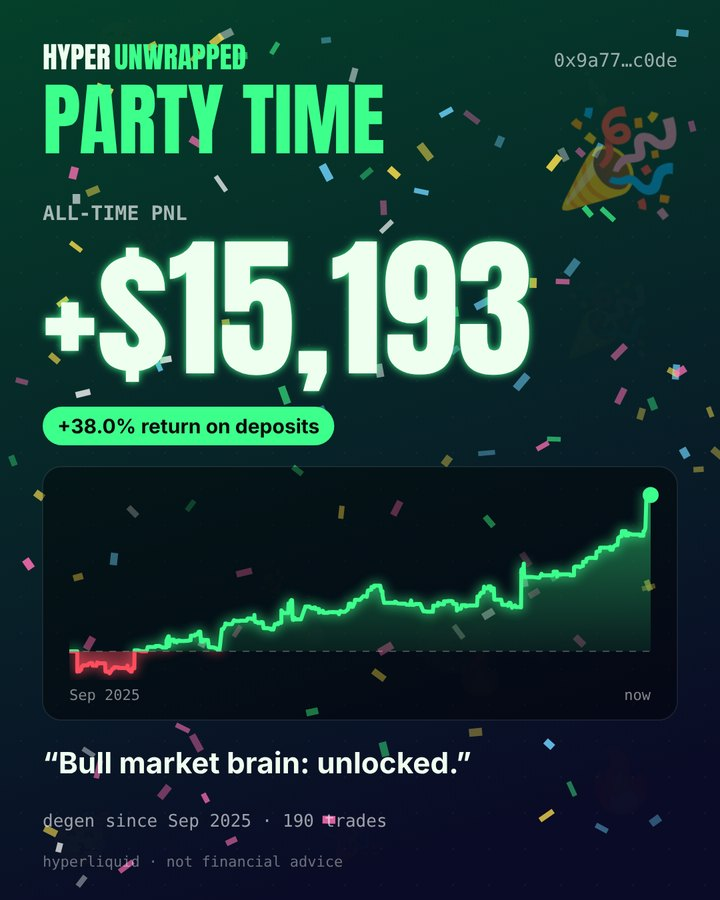
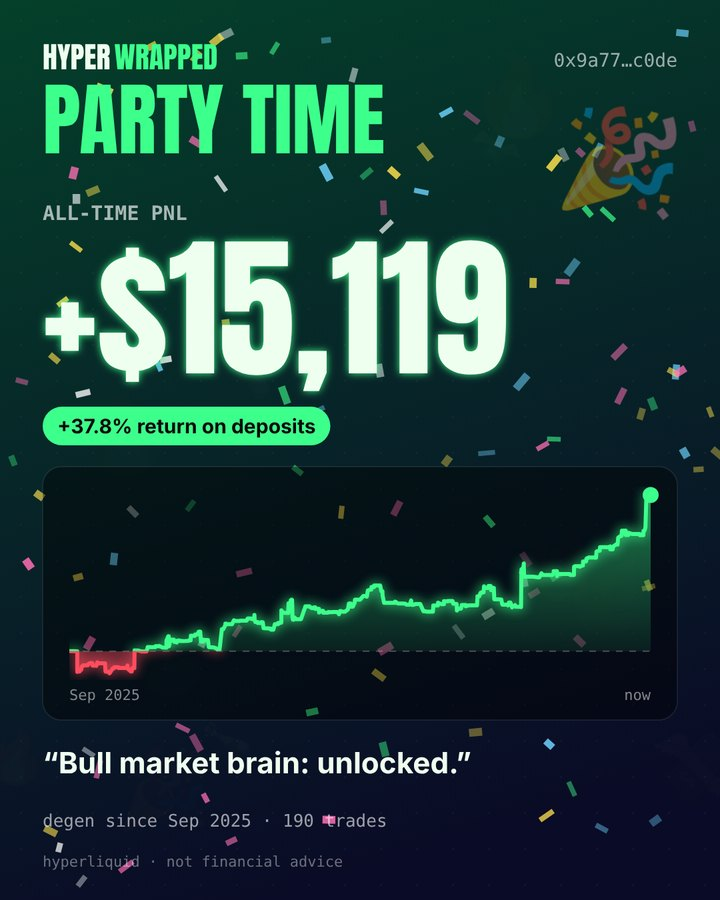
Rename to Hyper Wrapped

diff --git a/docs/assets/index-BcBB-TgB.js b/docs/assets/index-BcBB-TgB.js
@@ -1,0 +1,1 @@
+(function(){const t=document.createElement("link").relList;if(t&&t.supports&&t.supports("modulepreload"))return;for(const s of document.querySelectorAll('link[rel="modulepreload"]'))i(s);new MutationObserver(s=>{for(const o of s)if(o.type==="childList")for(const l of o.addedNodes)l.tagName==="LINK"&&l.rel==="modulepreload"&&i(l)}).observe(document,{childList:!0,subtree:!0});function n(s){const o={};return s.integrity&&(o.integrity=s.integrity),s.referrerPolicy&&(o.referrerPolicy=s.referrerPolicy),s.crossOrigin==="use-credentials"?o.credentials="include":s.crossOrigin==="anonymous"?o.credentials="omit":o.credentials="same-origin",o}function i(s){if(s.ep)return;s.ep=!0;const o=n(s);fetch(s.href,o)}})();const ze="https://api.hyperliquid.xyz/info",ke=2e3,ve=5,Ge=500,We=20,Ye=e=>new Promise(t=>setTimeout(t,e));function je(e=fetch.bind(globalThis),t=ze){const n=async(i,s=0)=>{const o=await e(t,{method:"POST",headers:{"Content-Type":"application/json"},body:JSON.stringify(i)});if(o.status===429&&s<4)return await Ye(1200*(s+1)),n(i,s+1);if(!o.ok)throw new Error(`Hyperliquid API returned ${o.status}`);return o.json()};return i=>n(i)}async function Me(e,t,n,i,s){const o=[];let l=t;for(let r=0;r<i;r++){const a=await e(l);if(!Array.isArray(a)||!a.length)return{items:o,capped:!1};if(o.push(...a),s==null||s(o.length,r),a.length<n)return{items:o,capped:!1};l=Math.max(...a.map(c=>c.time))+1}return{items:o,capped:!0}}function _e(e){const t=new Set;return e.filter(n=>{const i=n.tid!=null?String(n.tid):`${n.hash}${n.oid}${n.time}${n.px}`;return t.has(i)?!1:(t.add(i),!0)}).sort((n,i)=>n.time-i.time)}async function Ke(e,t,n=()=>{}){var d;n(.05,"Pulling your fills…");const{items:i,capped:s}=await Me(f=>t({type:"userFillsByTime",user:e,startTime:f,aggregateByTime:!0}),0,ke,ve,(f,m)=>n(.08+m*.1,`Pulling your fills… ${f.toLocaleString()}`)),o=_e(i);n(.6,"Consulting the funding gods…");const{items:l}=await Me(f=>t({type:"userFunding",user:e,startTime:f}),o.length?o[0].time:0,Ge,We);n(.72,"Counting the damage…");const[r,a]=await Promise.all([t({type:"portfolio",user:e}).catch(()=>null),t({type:"clearinghouseState",user:e}).catch(()=>null)]),c={};if(o.some(f=>f.coin.startsWith("@")))try{const f=await t({type:"spotMeta"});for(const m of f.universe)c[m.name]=((d=f.tokens[m.tokens[0]])==null?void 0:d.name)??m.name}catch{}return{user:e,fills:o,funding:l,portfolio:r,state:a,spotNames:c,capped:s||i.length>=ke*ve}}const U=864e5,ae=36e5,J=(e,t,n)=>Math.max(t,Math.min(n,e));function Le(e){let t=2166136261;for(const n of e)t^=n.charCodeAt(0),t=Math.imul(t,16777619);return t>>>0}function ye(e){let t=e>>>0;return()=>{t|=0,t=t+1831565813|0;let n=Math.imul(t^t>>>15,1|t);return n=n+Math.imul(n^n>>>7,61|n)^n,((n^n>>>14)>>>0)/4294967296}}const L=(e,t)=>t[Math.floor(e()*t.length)];function w(e,t=!0){const n=e<0?"-":t&&e>0?"+":"",i=Math.abs(e);let s;return i>=1e9?s=(i/1e9).toFixed(2)+"B":i>=1e6?s=(i/1e6).toFixed(2)+"M":i>=1e5?s=(i/1e3).toFixed(1)+"K":i>=1e3?s=Math.round(i).toLocaleString("en-US"):s=i.toFixed(2),n+"$"+s}const Ve=e=>(e>0?"+":"")+(Math.abs(e)>=10?Math.round(e*100).toLocaleString("en-US"):(e*100).toFixed(1))+"%";function ce(e){const t=Number(e);return isFinite(t)?t>=1e3?"$"+Math.round(t).toLocaleString("en-US"):"$"+Number(t.toPrecision(5)).toString():"—"}function te(e){const t=Math.round(e/1e3);if(t<60)return Math.max(1,t)+"s";const n=Math.round(e/6e4);if(n<60)return n+"m";if(n<48*60)return Math.floor(n/60)+"h "+n%60+"m";const i=Math.round(e/36e5);return Math.floor(i/24)+"d "+i%24+"h"}const Je=e=>new Date(e).toLocaleDateString("en-US",{month:"short",day:"numeric",year:"numeric"}),Oe=e=>new Date(e).toLocaleDateString("en-US",{month:"short",year:"numeric"}),qe=e=>e.slice(0,6)+"…"+e.slice(-4),Qe=e=>/^0x[0-9a-fA-F]{40}$/.test(e.trim()),Xe=/^(k?PEPE|k?BONK|WIF|k?SHIB|DOGE|POPCAT|BRETT|MEW|k?FLOKI|FARTCOIN|TURBO|PNUT|GOAT|MOODENG|PENGU|TRUMP|SPX|k?NEIRO|CHILLGUY|BOME|MEME)$/i;function Ze(e){var n;return((n=[[e.liqCount>=3,["The Liquidation Speedrunner",`${e.liqCount} liquidations. The engine knows you by name.`]],[e.fees>Math.abs(e.pnl)&&e.fees>100,["The Fee Donor","Validators thank you for your service."]],[e.fundingNet>Math.abs(e.pnl)*.3&&e.fundingNet>100,["The Funding Farmer","Gets paid to wait. Annoyingly smart."]],[!!e.favCoin&&Xe.test(e.favCoin),["The Memecoin Mercenary",`Most traded: ${e.favCoin}. No further questions.`]],[e.winRate>=.65&&e.tradeCount>=10,["The Sniper",`${Math.round(e.winRate*100)}% win rate. Suspiciously good.`]],[e.medianHold>0&&e.medianHold<ae,["The Paper Hands",`Median hold: ${te(e.medianHold)}. Commitment issues.`]],[e.medianHold>7*U,["The Diamond Hands",`Median hold: ${te(e.medianHold)}. Touch grass? Never.`]],[e.winRate<.35&&e.tradeCount>=10,["The Contrarian Indicator","Do the opposite of this wallet."]]].find(([i])=>i))==null?void 0:n[1])??["The Coin Flipper","Wins some, loses some, pays fees on all of it."]}const we=1e-12;function et(e,t={}){const n=String(e);return t[n]?t[n]:n.includes(":")?n.split(":")[1]:n.includes("/")?n.split("/")[0]:n}function Re(e){const t=Number(e.fee||0);return e.feeToken&&e.feeToken!=="USDC"?t*Number(e.px):t}const Fe=(e,t)=>!!e.liquidation&&String(e.liquidation.liquidatedUser??"").toLowerCase()===t.toLowerCase();function fe(e,t,n,i){const s=Number(e.px);return{coin:e.coin,name:t,side:n,openTime:e.time,pnl:0,inSz:i,inNotional:i*s,outSz:0,outNotional:0,maxSz:i,liq:!1}}function tt(e,t,n=i=>i){const i=[],s={};for(const o of[...e].sort((l,r)=>l.time-r.time)){const l=Number(o.sz),r=Number(o.px),a=o.side==="B"?l:-l,c=Number(o.startPosition||0),d=c+a;let f=s[o.coin];!f&&Math.abs(c)>we&&(f=s[o.coin]=fe(o,n(o.coin),c>0?1:-1,Math.abs(c)));const m=!!f&&Math.sign(a)!==f.side;if(f||(f=s[o.coin]={...fe(o,n(o.coin),a>0?1:-1,0)}),f.pnl+=Number(o.closedPnl||0)-Re(o),Fe(o,t)&&(f.liq=!0),!m){f.inSz+=l,f.inNotional+=l*r,f.maxSz=Math.max(f.maxSz,Math.abs(d));continue}const S=Math.min(l,Math.abs(c));f.outSz+=S,f.outNotional+=S*r;const b=Math.abs(d)<we,T=!b&&Math.sign(d)!==Math.sign(c);(b||T)&&(f.closeTime=o.time,f.entry=f.inNotional/(f.inSz||1),f.exit=f.outNotional/(f.outSz||1),i.push(f),delete s[o.coin],T&&(s[o.coin]=fe(o,f.name,d>0?1:-1,Math.abs(d))))}return{closed:i,open:Object.values(s)}}function nt(e){var l;const t=Array.isArray(e)?e.find(r=>r[0]==="allTime"):void 0,n=(l=t==null?void 0:t[1])==null?void 0:l.pnlHistory;if(!(n!=null&&n.length))return null;const i=n.map(([r,a])=>[r,Number(a)]),s=new Map(i);let o=0;for(const[r,a]of t[1].accountValueHistory??[]){const c=s.get(r);c!==void 0&&(o=Math.max(o,Number(a)-c))}return{series:i,pnl:i[i.length-1][1],basis:o}}function ot(e){var G,Q,re;const t=h=>et(h,e.spotNames),{closed:n}=tt(e.fills,e.user,t);let i=0,s=0,o=0,l=0;const r={},a={},c=new Array(24).fill(0);for(const h of e.fills){const k=Number(h.sz)*Number(h.px),X=Re(h),_=t(h.coin);i+=k,s+=X,o+=Number(h.builderFee||0),c[new Date(h.time).getUTCHours()]++,a[_]=(a[_]||0)+k;const Se=r[_]??(r[_]={name:_,pnl:0,vol:0,trades:0});Se.pnl+=Number(h.closedPnl||0)-X,Se.vol+=k,Fe(h,e.user)&&l++}for(const h of n)r[h.name].trades++;let d=0;for(const h of e.funding){const k=Number(((G=h.delta)==null?void 0:G.usdc)||0);d+=k;const X=r[t((Q=h.delta)==null?void 0:Q.coin)];X&&(X.pnl+=k)}const f=nt(e.portfolio);let m,S,b=0;if(f)({pnl:m,series:S,basis:b}=f);else{let h=0;S=n.map(k=>[k.closeTime,h+=k.pnl]),m=h+d}const T=b>0?Math.max(-1,m/b):null,g=n.filter(h=>h.pnl>0).length,v=n.length?g/n.length:0;let y=0,P=0;for(const h of n)y=h.pnl>0?y+1:0,P=Math.max(P,y);const I=h=>h.closeTime-h.openTime,z=n.map(I).sort((h,k)=>h-k),H=z.length?z[Math.floor(z.length/2)]:0,C=[...n].sort((h,k)=>I(k)-I(h)),q=Object.values(r),D=Object.entries(a).sort((h,k)=>k[1]-h[1])[0]??null,le=(((re=e.state)==null?void 0:re.assetPositions)??[]).map(h=>h.position).filter(Boolean).map(h=>{var k;return{name:t(h.coin),szi:Number(h.szi),entry:Number(h.entryPx),upnl:Number(h.unrealizedPnl),lev:(k=h.leverage)==null?void 0:k.value,liq:h.liquidationPx?Number(h.liquidationPx):null,value:Number(h.positionValue??0)}}).sort((h,k)=>Math.abs(k.upnl)-Math.abs(h.upnl));return{user:e.user,pnl:m,roi:T,basis:b,series:S,trades:n,sortedTrades:[...n].sort((h,k)=>k.pnl-h.pnl),winRate:v,wins:g,bestStreak:P,volume:i,fees:s,builderFees:o,fundingNet:d,liqCount:l,bestCoins:q.filter(h=>h.pnl>0).sort((h,k)=>k.pnl-h.pnl).slice(0,3),cursed:q.filter(h=>h.pnl<0).sort((h,k)=>h.pnl-k.pnl).slice(0,3),favCoin:D,favHour:c.indexOf(Math.max(...c)),positions:le,archetype:Ze({pnl:m,fees:s,fundingNet:d,liqCount:l,winRate:v,tradeCount:n.length,medianHold:H,favCoin:(D==null?void 0:D[0])??null}),medianHold:H,longestHold:C[0]??null,shortestHold:C.length>1?C[C.length-1]:null,capped:e.capped,firstTime:e.fills.length?e.fills[0].time:null,fillCount:e.fills.length}}const it=30*U,st=8;async function lt(e,t,n=Date.now()){const i=e.trades.filter(o=>o.outSz>0&&o.closeTime).sort((o,l)=>l.outNotional-o.outNotional).slice(0,st);let s=null;for(const o of i){const l=Math.min(o.closeTime+it,n);if(!(l-o.closeTime<ae))try{const r=await t({type:"candleSnapshot",req:{coin:o.coin,interval:"4h",startTime:o.closeTime,endTime:l}});if(!Array.isArray(r)||!r.length)continue;const a=o.side>0?Math.max(...r.map(d=>Number(d.h))):Math.min(...r.map(d=>Number(d.l))),c=(o.side>0?a-o.exit:o.exit-a)*o.outSz;c>0&&(!s||c>s.missed)&&(s={trade:o,ext:a,missed:c})}catch{}}return s}const O={rekt:{title:"FULLY REKT",bg:["#2a0004","#050003"],acc:"#ff2d3d",ink:"#ffe9ea",fx:"skulls",emoji:"💀",quips:["The liquidation engine sends its regards.","Your PnL chart is a black ski slope.","Exit liquidity of the year. Congrats?","Time to touch grass. Lots of grass."]},pain:{title:"DOWN BAD",bg:["#330a10","#0a0a12"],acc:"#ff4d5e",ink:"#ffeef0",fx:"rain",emoji:"😭",quips:["Buy high, sell low: executed flawlessly.","The market took your lunch money. And your lunch.","Down bad, but still here. Respect."]},cope:{title:"IT'S JUST A DIP",bg:["#18202e","#090b10"],acc:"#8fb0dc",ink:"#eef3fb",fx:"drizzle",emoji:"🫠",quips:["Basically breakeven if you squint.","Fees ate your gains. Fees always eat.","Zoom out. No, further. Further."]},meh:{title:"TECHNICALLY PROFITABLE",bg:["#0b2a1c","#06100b"],acc:"#5ef0a0",ink:"#eafff3",fx:"sparkle",emoji:"😏",quips:["Up only (slightly).","Beat a savings account. Barely.","Profitable. Technically. We checked twice."]},party:{title:"PARTY TIME",bg:["#04402a","#0a0b26"],acc:"#3dff8c",ink:"#efffef",fx:"confetti",emoji:"🎉",quips:["Absolutely cooking.","Bull market brain: unlocked.","The funding gods smiled upon you."]},god:{title:"GENERATIONAL RUN",bg:["#4a3200","#22003f"],acc:"#ffd23d",ink:"#fff8e1",fx:"rockets",emoji:"🚀",quips:["Generational wealth speedrun.","Screenshot this before it reverts.","Retire? You just got warmed up."]}};function rt(e){const t=e.roi;if(t!==null&&isFinite(t))return t<=-.5?["rekt",J(-t,.5,1)]:t<=-.1?["pain",J(-t/.5,.2,1)]:t<0?["cope",.3]:t<.1?["meh",.3]:t<1?["party",J(t,.25,1)]:["god",J(t/5,.5,1)];const n=e.pnl;return n<=-1e4?["rekt",.8]:n<=-500?["pain",.6]:n<0?["cope",.3]:n<500?["meh",.3]:n<5e4?["party",.7]:["god",.9]}const at=["#3dff8c","#ffe14d","#ff6fb5","#6fd3ff","#ffffff"],ct=["#ffd23d","#ff7ad9","#7af7ff","#ffffff","#b388ff"];function Pe(e,t,n,i){for(let s=0;s<n;s++)e.save(),e.globalAlpha=.35+t()*.5,e.translate(t()*p,t()*E),e.rotate(t()*6.28),e.fillStyle=L(t,i),e.fillRect(-9,-4,14+t()*14,7+t()*5),e.restore()}function ue(e,t,n,i){e.strokeStyle=i,e.lineWidth=2.5;for(let s=0;s<n;s++){const o=t()*p,l=t()*E,r=30+t()*60;e.beginPath(),e.moveTo(o,l),e.lineTo(o-r*.25,l+r),e.stroke()}}function Z(e,t,n,i,s=50,o=70,l=.25){for(let r=0;r<n;r++)ie(e,L(t,i),t()*p,t()*E,s+t()*o,(t()-.5)*.7,l+t()*.3)}function de(e,t,n,i,s,o,l){const r=e.createRadialGradient(t,n,i,t,n,s);r.addColorStop(0,o),r.addColorStop(1,l),e.fillStyle=r,e.fillRect(0,0,p,E)}function ft(e,t,n,i){switch(e.save(),t){case"rockets":Pe(e,n,Math.round(50+170*i),ct),Z(e,n,Math.round(10+12*i),["🚀","💰","💎","🍾","🤑","🔥"],54),de(e,p*.8,150,10,700,"rgba(255,210,61,.35)","rgba(255,210,61,0)");break;case"confetti":Pe(e,n,Math.round(50+170*i),at),Z(e,n,Math.round(6+12*i),["🎉","🍾","💸","🥳","🔥"],54);break;case"sparkle":Z(e,n,10,["✨","💵","📈"],40,40,.18);break;case"drizzle":ue(e,n,70,"rgba(180,200,255,.2)");break;case"rain":ue(e,n,Math.round(140+220*i),"rgba(180,200,255,.2)"),Z(e,n,Math.round(5+14*i),["🌧","📉","😭","🧻"]),de(e,p/2,E/2,300,900,"rgba(0,0,0,0)","rgba(0,0,0,.45)");break;case"skulls":ue(e,n,Math.round(140+220*i),"rgba(255,90,100,.22)"),Z(e,n,Math.round(8+14*i),["💀","🪦","⚰","📉","🩸"]),de(e,p/2,E/2,300,900,"rgba(0,0,0,0)","rgba(120,0,10,.55)");break}e.restore()}const p=1080,E=1350,u=64,M="Anton, Impact, sans-serif",Y="'Space Grotesk', system-ui, sans-serif",A="'JetBrains Mono', ui-monospace, monospace",ut='"Apple Color Emoji","Segoe UI Emoji","Noto Color Emoji",sans-serif',oe="rgba(255,255,255,.55)",W="#3dff8c",x="#ff4d5e",dt="#ffd23d";function ht(){return Promise.all([document.fonts.load("100px Anton"),document.fonts.load('700 40px "Space Grotesk"'),document.fonts.load('500 20px "JetBrains Mono"'),document.fonts.load('700 20px "JetBrains Mono"')]).catch(()=>{})}function N(e,t,n,i,s,o=""){let l=i;for(e.font=`${o} ${l}px ${s}`;e.measureText(t).width>n&&l>12;)l-=2,e.font=`${o} ${l}px ${s}`;return l}function ne(e,t,n,i,s,o){let l="",r=i;for(const a of t.split(" ")){const c=l?`${l} ${a}`:a;e.measureText(c).width>s&&l?(e.fillText(l,n,r),l=a,r+=o):l=c}return l&&e.fillText(l,n,r),r}function be(e,t,n,i,s,o){e.beginPath(),e.moveTo(t+o,n),e.arcTo(t+i,n,t+i,n+s,o),e.arcTo(t+i,n+s,t,n+s,o),e.arcTo(t,n+s,t,n,o),e.arcTo(t,n,t+i,n,o),e.closePath()}function j(e,t,n,i,s,o=.42){e.save(),e.fillStyle=`rgba(0,0,0,${o})`,be(e,t,n,i,s,28),e.fill(),e.strokeStyle="rgba(255,255,255,.08)",e.lineWidth=2,e.stroke(),e.restore()}function ie(e,t,n,i,s,o=0,l=1){e.save(),e.globalAlpha=l,e.translate(n,i),e.rotate(o),e.font=`${s}px ${ut}`,e.textAlign="center",e.textBaseline="middle",e.fillText(t,0,0),e.restore()}function R(e,t,n,i,s){e.font=`700 30px ${A}`,e.fillStyle=s,e.fillText(t.toUpperCase(),n,i)}function ge(e,t,n,i,s,o){e.font=`700 30px ${Y}`;const l=e.measureText(t).width+44;return e.fillStyle=s,be(e,n,i-40,l,58,29),e.fill(),e.fillStyle=o,e.fillText(t,n+22,i),l}function Te(e,t,n,i,s,o,l,r=0,a=l){const c=N(e,t,s,o,M);return e.save(),e.fillStyle=l,r&&(e.shadowColor=a,e.shadowBlur=r),e.fillText(t,n,i),e.restore(),c}function se(e,t,n,i,s=44){return e.font=`700 ${s}px ${Y}`,e.fillStyle=i,ne(e,`“${t}”`,u,n,p-u*2,s*1.22)}function B(e,t,n,i){const s=document.createElement("canvas");s.width=p,s.height=E;const o=s.getContext("2d"),l=ye(n),r=o.createLinearGradient(0,0,p*.4,E);r.addColorStop(0,e.bg[0]),r.addColorStop(1,e.bg[1]),o.fillStyle=r,o.fillRect(0,0,p,E),o.fillStyle="rgba(255,255,255,.035)";for(let c=30;c<p;c+=54)for(let d=30;d<E;d+=54)o.fillRect(c,d,3,3);ft(o,e.fx,l,t),o.textBaseline="alphabetic",o.font=`44px ${M}`,o.fillStyle=e.ink,o.fillText("HYPER",u,104);const a=o.measureText("HYPER").width;return o.fillStyle=e.acc,o.fillText("WRAPPED",u+a+6,104),o.textAlign="right",o.fillStyle="rgba(255,255,255,.6)",o.font=`500 28px ${A}`,o.fillText(qe(i),p-u,100),o.textAlign="left",o.font=`500 22px ${A}`,o.fillStyle="rgba(255,255,255,.4)",o.fillText("hyperliquid · not financial advice",u,E-50),{cv:s,ctx:o,r:l}}function pt(e,t,n,i,s,o){if(t.length<2){e.fillStyle="rgba(255,255,255,.5)",e.font=`500 28px ${A}`,e.fillText("not enough history to chart",n+30,i+o/2);return}const l=t[0][0],r=t[t.length-1][0],a=t.map(y=>y[1]),c=Math.min(0,...a),d=Math.max(0,...a),f=d-c||1,m=y=>n+(y-l)/(r-l||1)*s,S=y=>i+o-(y-c)/f*o,b=S(0);e.save(),e.strokeStyle="rgba(255,255,255,.25)",e.setLineDash([10,10]),e.lineWidth=2,e.beginPath(),e.moveTo(n,b),e.lineTo(n+s,b),e.stroke(),e.restore();const T=[[1,W,"rgba(61,255,140,.45)","rgba(61,255,140,.03)"],[-1,x,"rgba(255,77,94,.05)","rgba(255,77,94,.45)"]];for(const[y,P,I,z]of T){e.save(),e.beginPath(),y>0?e.rect(n,i-10,s,b-i+10):e.rect(n,b,s,i+o-b+10),e.clip();const H=e.createLinearGradient(0,i,0,i+o);H.addColorStop(0,I),H.addColorStop(1,z),e.beginPath(),e.moveTo(m(l),b);for(const[C,q]of t)e.lineTo(m(C),S(q));e.lineTo(m(r),b),e.closePath(),e.fillStyle=H,e.fill(),e.beginPath(),t.forEach(([C,q],D)=>D?e.lineTo(m(C),S(q)):e.moveTo(m(C),S(q))),e.strokeStyle=P,e.lineWidth=6,e.lineJoin="round",e.shadowColor=P,e.shadowBlur=18,e.stroke(),e.restore()}const[g,v]=t[t.length-1];e.beginPath(),e.arc(m(g),S(v),12,0,6.28),e.fillStyle=v>=0?W:x,e.fill(),e.font=`500 22px ${A}`,e.fillStyle="rgba(255,255,255,.5)",e.fillText(Oe(l),n,i+o+40),e.textAlign="right",e.fillText("now",n+s,i+o+40),e.textAlign="left"}function mt({S:e,mood:t,k:n,seed:i,r:s}){const{cv:o,ctx:l}=B(t,n,i,e.user);ie(l,t.emoji,p-150,250,150,.12);const r=N(l,t.title,p-300,120,M);l.fillStyle=t.acc,l.fillText(t.title,u,230+(120-r)/2),R(l,"all-time pnl",u,330,"rgba(255,255,255,.65)");const a=N(l,w(e.pnl),p-u*2,230,M);Te(l,w(e.pnl),u,560-(230-a)/2,p-u*2,230,t.ink,30*n,t.acc),e.roi!==null&&isFinite(e.roi)&&ge(l,`${Ve(e.roi)} return on deposits`,u,650,t.acc,"#0a0a0a"),j(l,u,700,p-u*2,380),pt(l,e.series,u+40,740,p-u*2-80,270);const c=se(l,L(s,t.quips),1160,t.ink,44);l.font=`500 26px ${A}`,l.fillStyle="rgba(255,255,255,.6)";const d=e.firstTime?`degen since ${Oe(e.firstTime)} · `:"";return l.fillText(`${d}${e.trades.length.toLocaleString()} trades${e.capped?" (last 10k fills)":""}`,u,Math.min(Math.max(c+60,1240),1262)),{name:"pnl",cv:o}}function gt({S:e,mood:t,k:n,seed:i}){const{cv:s,ctx:o}=B(t,n*.7,i+1,e.user);R(o,"your trader archetype",u,230,t.acc);const l=e.archetype[0].toUpperCase().split(" "),r=l.length>3?130:160;let a=230+r;o.fillStyle=t.ink;for(const d of l){const f=N(o,d,p-u*2,r,M);o.fillText(d,u,a),a+=f+6}return o.font=`700 46px ${Y}`,o.fillStyle="rgba(255,255,255,.85)",ne(o,e.archetype[1],u,a+40,p-u*2,56),j(o,u,1050,p-u*2,200),[["win rate",`${Math.round(e.winRate*100)}%`],["best streak",`${e.bestStreak}W`],["median hold",e.medianHold?te(e.medianHold):"—"]].forEach(([d,f],m)=>{const S=u+40+m*310;o.font=`500 24px ${A}`,o.fillStyle=oe,o.fillText(d.toUpperCase(),S,1120),o.font=`70px ${M}`,o.fillStyle=t.acc,o.fillText(f,S,1210)}),{name:"archetype",cv:s}}const yt=["Called it. Insufferable now.","Main character energy.","Frame it. Put it on the fridge.","This is the one you tell people about."],bt=["Leverage: the gift that keeps on taking.","Stop loss? Never heard of her."],Tt=["We don't talk about this one.","Character-building experience.","The market said no. Loudly."];function Ie(e,t,n){const{S:i,seed:s,r:o}=e,l=n?O.party:O.pain,r=J(Math.abs(t.pnl)/(Math.abs(i.pnl)+1),.3,1),{cv:a,ctx:c}=B(l,r,s+(n?2:3),i.user);R(c,n?"best trade":"worst trade",u,230,l.acc);const d=N(c,t.name,p-u*2,260,M);c.fillStyle=l.ink,c.fillText(t.name,u,270+d*.92);let f=270+d*.92+90;const m=ge(c,t.side>0?"LONG":"SHORT",u,f,t.side>0?W:x,"#0a0a0a");t.liq&&ge(c,"LIQUIDATED 💀",u+m+14,f,"#000",x);const S=N(c,w(t.pnl),p-u*2,200,M);Te(c,w(t.pnl),u,f+60+S,p-u*2,200,l.acc,24),f=f+60+S+70,j(c,u,f,p-u*2,230),[["entry → exit",`${ce(t.entry)} → ${ce(t.exit)}`],["held",te(t.closeTime-t.openTime)],["closed",Je(t.closeTime)]].forEach(([g,v],y)=>{c.font=`500 26px ${A}`,c.fillStyle=oe,c.fillText(g.toUpperCase(),u+40,f+60+y*66),c.textAlign="right",c.font=`700 36px ${Y}`,c.fillStyle=l.ink,c.fillText(v,p-u-40,f+62+y*66),c.textAlign="left"});const T=n?L(o,yt):t.liq?L(o,bt):L(o,Tt);return se(c,T,Math.min(f+330,1220),l.ink),{name:n?"best-trade":"worst-trade",cv:a}}function St(e){const t=e.S.sortedTrades[0];return t&&t.pnl>0?Ie(e,t,!0):null}function kt(e){const t=e.S.sortedTrades[e.S.sortedTrades.length-1];return t&&t.pnl<0?Ie(e,t,!1):null}const $e=460,Ne=232;function De(e,t,n){const{S:i,seed:s,r:o}=e,l=n?O.party:O.rekt,{cv:r,ctx:a}=B(l,.55,s+(n?4:5),i.user);R(a,n?"your best assets":"your cursed assets",u,230,l.acc);const c=n?"MONEY PRINTERS":"THESE COINS OWE YOU",d=N(a,c,p-u*2,120,M);a.fillStyle=l.ink,a.fillText(c,u,260+d);const f=n?["🥇","🥈","🥉"]:["💀","🪦","⚰"],m=Math.max(...t.map(b=>Math.abs(b.pnl)),1);t.forEach((b,T)=>{const g=$e+T*Ne;j(a,u,g,p-u*2,206,.45),ie(a,f[T],150,g+105,90);const v=N(a,b.name,420,96,M);a.fillStyle=l.ink,a.fillText(b.name,230,g+90+(96-v)/3),a.font=`500 24px ${A}`,a.fillStyle=oe,a.fillText(`${b.trades} trades · ${w(b.vol,!1)} volume`,232,g+150),a.textAlign="right",N(a,w(b.pnl),330,72,M),a.fillStyle=l.acc,a.fillText(w(b.pnl),p-u-40,g+100),a.textAlign="left",a.globalAlpha=.85,be(a,232,g+170,(p-336)*(Math.abs(b.pnl)/m),12,6),a.fill(),a.globalAlpha=1});const S=n?L(o,["Never selling. (Sold immediately.)","Your ride-or-dies.","Loyalty rewarded, for once."]):L(o,["Blocked. Reported. Still trading it tomorrow.","Revenge trading enthusiasts only.","Some coins just hate you specifically."]);return se(a,S,$e+t.length*Ne+56,l.ink,40),{name:n?"best-assets":"cursed-assets",cv:r}}const vt=e=>e.S.bestCoins.length?De(e,e.S.bestCoins,!0):null,Mt=e=>e.S.cursed.length?De(e,e.S.cursed,!1):null;function wt({S:e,miss:t,seed:n,r:i}){if(!t)return null;const s=t.trade,o=O.cope,{cv:l,ctx:r}=B(o,.6,n+6,e.user);R(r,"biggest miss",u,230,o.acc),r.fillStyle=o.ink,r.font=`120px ${M}`,r.fillText("PAPER HANDS",u,370),ie(r,"🧻",p-140,320,120,.2),r.font=`700 44px ${Y}`,r.fillStyle="rgba(255,255,255,.9)";let a=ne(r,`You closed your ${s.name} ${s.side>0?"long":"short"} at ${ce(s.exit)}.`,u,480,p-u*2,56);a=ne(r,`Within 30 days it ${s.side>0?"ran to":"dumped to"} ${ce(t.ext)}.`,u,a+64,p-u*2,56),R(r,"left on the table",u,a+130,"rgba(255,255,255,.6)");const c=N(r,w(t.missed,!1),p-u*2,220,M);return Te(r,w(t.missed,!1),u,a+150+c,p-u*2,220,dt,24),se(r,L(i,["Hindsight is 20/20. Your exits are 20/200.","You sold the bottom of the top.","Patience is a virtue. You have other virtues."]),Math.min(a+150+c+120,1210),o.ink,42),{name:"biggest-miss",cv:l}}const Pt=["Married it.","Set it and forgot the password.","Patience of a monk. Or just asleep."],$t=["Blink and you'd miss it.","Commitment issues, but make it trading.","In and out. Like a heist, but worse."];function Ce(e,t,n,i,s,o){j(e,u,n,p-u*2,380,.45),ie(e,i?"💎":"🧻",p-u-90,n+90,100,i?-.15:.2),R(e,i?"diamond hands · longest hold":"paper hands · shortest hold",u+40,n+70,i?"#7af7ff":"#ffe1a8");const l=te(t.closeTime-t.openTime);N(e,l,p-u*2-240,150,M),e.fillStyle=o,e.fillText(l,u+40,n+220),e.font=`700 34px ${Y}`,e.fillStyle="rgba(255,255,255,.85)",e.fillText(`${t.name} ${t.side>0?"long":"short"}`,u+40,n+285),e.textAlign="right",N(e,w(t.pnl),380,64,M),e.fillStyle=t.pnl>=0?W:x,e.fillText(w(t.pnl),p-u-40,n+285),e.textAlign="left",e.font=`500 30px ${A}`,e.fillStyle=oe,e.fillText(`“${s}”`,u+40,n+355)}function Nt({S:e,seed:t,r:n}){const i=e.longestHold,s=e.shortestHold;if(!i||!s||i===s)return null;const o=O.cope,{cv:l,ctx:r}=B({...o,bg:["#0d1a2e","#120a1c"]},.3,t+9,e.user);R(r,"hold times",u,230,"#7af7ff"),N(r,"DIAMOND VS PAPER",p-u*2,120,M),r.fillStyle=o.ink,r.fillText("DIAMOND VS PAPER",u,360),Ce(r,i,400,!0,L(n,Pt),o.ink),Ce(r,s,810,!1,L(n,$t),o.ink);const a=(i.closeTime-i.openTime)/Math.max(1,s.closeTime-s.openTime);if(a>=10){const c=Intl.NumberFormat("en-US",{notation:a>=1e5?"compact":"standard",maximumFractionDigits:0}).format(a);se(r,`Your longest hold was ${c}× your shortest.`,1250,o.ink,34)}return{name:"hold-times",cv:l}}function Ct({S:e,seed:t}){if(!e.positions.length)return null;const n=e.positions.reduce((l,r)=>l+r.upnl,0),i=n>=0?O.meh:O.cope,{cv:s,ctx:o}=B(i,.4,t+7,e.user);return R(o,"current bags",u,230,i.acc),o.fillStyle=i.ink,o.font=`120px ${M}`,o.fillText(n>=0?"STILL COOKING":"STILL HOLDING",u,370),o.font=`500 30px ${A}`,o.fillStyle="rgba(255,255,255,.65)",o.fillText(`unrealized ${w(n)}`,u,430),e.positions.slice(0,5).forEach((l,r)=>{const a=480+r*150;j(o,u,a,p-u*2,126,.45),o.font=`64px ${M}`,o.fillStyle=i.ink,o.fillText(l.name,u+40,a+84),o.font=`700 26px ${A}`,o.fillStyle=l.szi>0?W:x,o.fillText(`${l.szi>0?"LONG":"SHORT"}${l.lev?` ${l.lev}x`:""}`,464,a+76),o.textAlign="right",o.font=`60px ${M}`,o.fillStyle=l.upnl>=0?W:x,o.fillText(w(l.upnl),p-u-40,a+84),o.textAlign="left"}),{name:"current-bags",cv:s}}function At(e){return e.fees>Math.abs(e.pnl)?`You paid ${w(e.fees,!1)} in fees. The exchange thanks you.`:e.liqCount?`${e.liqCount} liquidation${e.liqCount>1?"s":""}. Leverage is a hell of a drug.`:`Win rate ${Math.round(e.winRate*100)}%. ${e.winRate>.5?"Not bad, degen.":"A coin flip would be proud."}`}function Et({S:e,mood:t,k:n,seed:i}){const{cv:s,ctx:o}=B(t,n*.5,i+8,e.user);return R(o,"the receipts",u,230,t.acc),o.fillStyle=t.ink,o.font=`120px ${M}`,o.fillText("BY THE NUMBERS",u,370),[["volume traded",w(e.volume,!1)],["trades closed",e.trades.length.toLocaleString()],["fees paid",w(e.fees,!1)],["builder fees tipped",w(e.builderFees,!1)],["funding",w(e.fundingNet),e.fundingNet>=0?W:x],["liquidations",String(e.liqCount),e.liqCount?x:void 0],["most traded",e.favCoin?e.favCoin[0]:"—"],["favorite hour",`${String(e.favHour).padStart(2,"0")}:00 UTC`]].forEach(([r,a,c],d)=>{const f=u+d%2*486,m=430+Math.floor(d/2)*200;j(o,f,m,466,176,.42),o.font=`500 24px ${A}`,o.fillStyle=oe,o.fillText(r.toUpperCase(),f+34,m+54),N(o,a,400,76,M),o.fillStyle=c??t.ink,o.fillText(a,f+34,m+140)}),o.font=`700 38px ${Y}`,o.fillStyle=t.ink,ne(o,At(e),u,1250,p-u*2,46),{name:"receipts",cv:s}}const Lt=[mt,gt,St,kt,Nt,vt,Mt,wt,Ct,Et];function Ot(e,t){const n=Le(e.user),[i,s]=rt(e),o={S:e,miss:t,mood:O[i],k:s,seed:n,r:ye(n)};return{cards:Lt.map(r=>r(o)).filter(r=>r!==null),moodKey:i,k:s}}let Ae;function K(e){const t=document.querySelector("#toast");t.textContent=e,t.classList.add("on"),clearTimeout(Ae),Ae=setTimeout(()=>t.classList.remove("on"),1600)}const $=e=>document.querySelector(e),he=e=>new Promise((t,n)=>e.toBlob(i=>i?t(i):n(new Error("toBlob failed")),"image/png"));function pe(e,t){const n=document.createElement("a");n.href=URL.createObjectURL(e),n.download=t,document.body.appendChild(n),n.click(),setTimeout(()=>{URL.revokeObjectURL(n.href),n.remove()},1e3)}function qt(e){let t=[],n=[],i=0,s="";const o=c=>`hyper-wrapped-${qe(s).replace("…","")}-${c.name}.png`;function l(c){i=J(c,0,t.length-1),$("#cardImg").src=n[i],$("#prog").innerHTML=t.map((d,f)=>`<i data-j="${f}" class="${f<i?"done":f===i?"on":""}"></i>`).join(""),$("#count").textContent=`${i+1} / ${t.length}`}const r=()=>$("#story").style.display==="block";$("#prog").addEventListener("click",c=>{const d=c.target.dataset.j;d!=null&&l(Number(d))}),$("#tapL").onclick=$("#prev").onclick=()=>l(i-1),$("#tapR").onclick=$("#next").onclick=()=>l(i+1),addEventListener("keydown",c=>{r()&&(c.key==="ArrowRight"&&l(i+1),c.key==="ArrowLeft"&&l(i-1))});let a=null;return $("#stage").addEventListener("touchstart",c=>a=c.touches[0].clientX,{passive:!0}),$("#stage").addEventListener("touchend",c=>{if(a==null)return;const d=c.changedTouches[0].clientX-a;Math.abs(d)>40&&l(i+(d<0?1:-1)),a=null}),$("#save").onclick=async()=>{try{pe(await he(t[i].cv),o(t[i])),K("Saved")}catch{K("Long-press the card to save it")}},$("#saveAll").onclick=async()=>{try{for(const c of t)pe(await he(c.cv),o(c)),await new Promise(d=>setTimeout(d,250));K(`Saved ${t.length} cards`)}catch{K("Long-press each card to save it")}},$("#share").onclick=async()=>{var c;try{const d=new File([await he(t[i].cv)],o(t[i]),{type:"image/png"});(c=navigator.canShare)!=null&&c.call(navigator,{files:[d]})?await navigator.share({files:[d],text:"My Hyperliquid Wrapped 👀"}):(pe(d,d.name),K("Sharing not supported here, saved instead"))}catch(d){(d==null?void 0:d.name)!=="AbortError"&&K("Long-press the card to save it")}},$("#again").onclick=()=>{$("#story").style.display="none",e()},{open(c,d){t=c,s=d,n=c.map(f=>f.cv.toDataURL("image/png")),$("#story").style.display="block",l(0)}}}function Rt(e){const t=e.getContext("2d");let n=[],i=null,s=0;const o=()=>i==="confetti"||i==="rockets"||i==="sparkle";function l(){const r=devicePixelRatio,a=e.width=innerWidth*r,c=e.height=innerHeight*r;t.clearRect(0,0,a,c);const d=o();for(const f of n){f.y+=f.v*(d?1:4),f.r+=f.s,f.y>1.05&&(f.y=-.05,f.x=Math.random());const m=f.x*a,S=f.y*c;d?(t.save(),t.translate(m,S),t.rotate(f.r),t.globalAlpha=.55,t.fillStyle=f.c,t.fillRect(-5*r,-2.5*r,10*r,5*r),t.restore()):(t.strokeStyle=i==="skulls"?"rgba(255,80,90,.35)":"rgba(170,190,255,.25)",t.lineWidth=1.5*r,t.beginPath(),t.moveTo(m,S),t.lineTo(m-4*r,S+22*r),t.stroke())}s=requestAnimationFrame(l)}return{set(r,a=.5){if(i=r,cancelAnimationFrame(s),!r||matchMedia("(prefers-reduced-motion: reduce)").matches){t.clearRect(0,0,e.width,e.height);return}const c=r==="rockets"?["#ffd23d","#ff7ad9","#7af7ff","#fff"]:["#3dff8c","#ffe14d","#ff6fb5","#6fd3ff"],d=Math.round((o()?60:90)*(.4+a));n=Array.from({length:d},()=>({x:Math.random(),y:Math.random(),v:6e-4+Math.random()*.002,r:Math.random()*6.28,s:(Math.random()-.5)*.08,c:c[Math.floor(Math.random()*c.length)]})),l()}}}const Ue={god:"0x6a0de1d5e1a1c0ffee00000000000000000000aa",party:"0x9a77ee00000000000000000000000000beefc0de",cope:"0xc0be0000000000000000000000000000000d1d1d",rekt:"0xdead000000000000000000000000000000000bad"},Ft={god:{edge:.62,mult:9,n:160,liq:0,size:1,base:4e3},party:{edge:.56,mult:2.4,n:220,liq:0,size:.35,base:4e4},cope:{edge:.5,mult:.9,n:260,liq:1,size:.15,base:4e5},rekt:{edge:.3,mult:1.6,n:200,liq:5,size:1,base:15e4}},me=[["BTC",64e3,.08],["ETH",3100,1.4],["SOL",150,30],["HYPE",24,300],["kPEPE",.011,9e5],["WIF",2.1,4e3],["DOGE",.16,6e4],["SUI",1.8,5e3]],Ee=(e,t)=>e[1]*(1+.35*Math.sin(t/(37*U)+e[1])+.15*Math.sin(t/(5*U)+e[2]));function It(e,t=Date.now()){const n=ye(Le(e)+7),i=Ft[e],s=t-420*U,o=[],l=[];let r=1,a=s;const c={};for(let T=0;T<i.n&&(a+=(n()*2.2+.2)*U*(420/i.n)*.45,!(a>t-U));T++){const g=me[Math.floor(Math.pow(n(),1.4)*me.length)];if((c[g[0]]??0)>=a)continue;const v=n()<.6?1:-1,y=Ee(g,a),P=g[2]*(.3+n()*2.2)*(n()<.05?6:1)*i.size,I=n()<i.edge,z=(.01+n()*.12)*(I?i.mult*.5:1)*(I?1:-1),H=y*(1+z*v),C=Math.max((n()<.4?n()*.2:n()*6)*U,6e4*(1+n()*20)),q=Math.min(a+C,t-ae);c[g[0]]=q;const D=!I&&i.liq>0&&n()<i.liq/i.n*3,le=re=>(P*re*45e-5).toFixed(4);o.push({coin:g[0],px:String(y),sz:String(P),side:v>0?"B":"A",time:Math.round(a),startPosition:"0",dir:v>0?"Open Long":"Open Short",closedPnl:"0",fee:le(y),feeToken:"USDC",builderFee:n()<.5?(P*y*5e-4).toFixed(4):void 0,tid:r++});const G=D?y*(1-v*.09):H,Q={coin:g[0],px:String(G),sz:String(P),side:v>0?"A":"B",time:Math.round(q),startPosition:String(v*P),dir:v>0?"Close Long":"Close Short",closedPnl:String((G-y)*P*v),fee:le(G),feeToken:"USDC",tid:r++};D&&(Q.liquidation={liquidatedUser:Ue[e],markPx:String(G),method:"market"}),o.push(Q),n()<.5&&l.push({time:Math.round(a+C/2),delta:{type:"funding",coin:g[0],usdc:String((n()-.45)*P*y*4e-4*(C/U))}})}o.sort((T,g)=>T.time-g.time);let d=0;const f=[[s,"0"]],m=[[s,String(i.base)]];for(const T of o)d+=Number(T.closedPnl)-Number(T.fee),f.push([T.time,String(d)]),m.push([T.time,String(i.base+d)]);const S=[["allTime",{pnlHistory:f,accountValueHistory:m,vlm:"0"}]],b={assetPositions:e==="rekt"?[]:[{position:{coin:"HYPE",szi:"420",entryPx:"31.2",unrealizedPnl:e==="cope"?"-512.4":"1840.2",leverage:{value:5},positionValue:"13000"}},{position:{coin:"ETH",szi:"-2.5",entryPx:"3350",unrealizedPnl:e==="cope"?"-220.1":"690.5",leverage:{value:10},positionValue:"8000"}}]};return async T=>{switch(await new Promise(g=>setTimeout(g,40)),T.type){case"userFillsByTime":return o.filter(g=>g.time>=T.startTime).slice(0,2e3);case"userFunding":return l.filter(g=>g.time>=T.startTime).slice(0,500);case"portfolio":return S;case"clearinghouseState":return b;case"candleSnapshot":{const g=me.find(y=>y[0]===T.req.coin),v=[];for(let y=T.req.startTime;y<=T.req.endTime;y+=4*ae){const P=Ee(g,y);v.push({t:y,h:P*1.01,l:P*.99})}return v}default:return[]}}}const F=e=>document.querySelector(e),xe="hu:last",He=Rt(F("#fx")),Dt=qt(()=>{F("#landing").style.display="block",He.set(null),scrollTo(0,0)});function V(e,t=!1){const n=F("#status");n.textContent=e,n.classList.toggle("err",t)}function ee(e){F("#bar").style.display=e==null?"none":"block",F("#bar i").style.width=`${(e??0)*100}%`}async function Be(e,t,n){const i=F("#goBtn");i.disabled=!0;try{const s=await Ke(e,t,(d,f)=>{ee(d),V(f)});if(!s.fills.length)throw new Error("No trades found for this address. Either a fresh wallet or a very patient one.");const o=ot(s);ee(.82),V("Measuring your biggest regret…");const l=await lt(o,t);ee(.92),V("Printing your cards…"),await ht();const{cards:r,moodKey:a,k:c}=Ot(o,l);if(ee(null),V(""),F("#landing").style.display="none",document.documentElement.style.setProperty("--acc",O[a].acc),He.set(O[a].fx,c),Dt.open(r,e),scrollTo(0,0),!n)try{localStorage.setItem(xe,e)}catch{}}catch(s){ee(null);const o=s.message;V(/Failed to fetch|NetworkError|Load failed/i.test(o)?"Couldn't reach Hyperliquid's API from here. Try again, or try a demo.":o,!0)}finally{i.disabled=!1}}F("#form").addEventListener("submit",e=>{e.preventDefault();const t=F("#addr"),n=t.value.trim();if(!Qe(n)){t.classList.add("bad"),V("That's not a valid 0x address.",!0);return}t.classList.remove("bad"),Be(n.toLowerCase(),je(),!1)});document.querySelectorAll("[data-demo]").forEach(e=>e.addEventListener("click",()=>{const t=e.dataset.demo;Be(Ue[t],It(t),!0)}));try{const e=localStorage.getItem(xe);e&&(F("#addr").value=e)}catch{}

diff --git a/docs/index.html b/docs/index.html
@@ -3,22 +3,22 @@
 <head>
 <meta charset="utf-8">
 <meta name="viewport" content="width=device-width, initial-scale=1">
-<title>Hyper Unwrapped — your Hyperliquid trading, unwrapped</title>
+<title>Hyper Wrapped — your Hyperliquid trading, wrapped</title>
 <meta name="description" content="Paste a Hyperliquid address, get shareable PnL cards: best trade, worst trade, cursed assets, biggest miss and more.">
 <meta name="theme-color" content="#07070a">
 <link rel="preconnect" href="https://fonts.googleapis.com">
 <link rel="preconnect" href="https://fonts.gstatic.com" crossorigin>
 <link href="https://fonts.googleapis.com/css2?family=Anton&family=Space+Grotesk:wght@500;700&family=JetBrains+Mono:wght@500;700&display=swap" rel="stylesheet">
-  <script type="module" crossorigin src="./assets/index-D3Lh9Vtj.js"></script>
+  <script type="module" crossorigin src="./assets/index-BcBB-TgB.js"></script>
   <link rel="stylesheet" crossorigin href="./assets/index-DpMJUXcq.css">
 </head>
 <body>
 <canvas id="fx"></canvas>
 <div class="wrap">
-  <header><div class="logo">HYPER<i>UNWRAPPED</i></div><div class="tag">not financial advice</div></header>
+  <header><div class="logo">HYPER<i>WRAPPED</i></div><div class="tag">not financial advice</div></header>
 
   <section id="landing">
-    <h1>Your perps,<br><span>unwrapped</span>.<br><em>No refunds.</em></h1>
+    <h1>Your perps,<br><span>wrapped</span>.<br><em>No refunds.</em></h1>
     <p>Paste any Hyperliquid address. Get shareable cards: all-time PnL, best and worst trades, cursed assets, biggest miss, and what kind of degen you really are.</p>
     <form class="inp" id="form">
       <input id="addr" placeholder="0x… Hyperliquid address" autocomplete="off" spellcheck="false" inputmode="text">
@@ -37,7 +37,7 @@
 
   <section id="story">
     <div class="prog" id="prog"></div>
-    <div class="stage" id="stage"><img id="cardImg" alt="unwrapped card"><div class="tap l" id="tapL"></div><div class="tap r" id="tapR"></div></div>
+    <div class="stage" id="stage"><img id="cardImg" alt="wrapped card"><div class="tap l" id="tapL"></div><div class="tap r" id="tapR"></div></div>
     <div class="nav"><button id="prev">← prev</button><span class="tag" id="count"></span><button id="next">next →</button></div>
     <div class="actions">
       <button class="act primary" id="share">Share card</button>

diff --git a/web/index.html b/web/index.html
@@ -3,7 +3,7 @@
 <head>
 <meta charset="utf-8">
 <meta name="viewport" content="width=device-width, initial-scale=1">
-<title>Hyper Unwrapped — your Hyperliquid trading, unwrapped</title>
+<title>Hyper Wrapped — your Hyperliquid trading, wrapped</title>
 <meta name="description" content="Paste a Hyperliquid address, get shareable PnL cards: best trade, worst trade, cursed assets, biggest miss and more.">
 <meta name="theme-color" content="#07070a">
 <link rel="preconnect" href="https://fonts.googleapis.com">
@@ -13,10 +13,10 @@
 <body>
 <canvas id="fx"></canvas>
 <div class="wrap">
-  <header><div class="logo">HYPER<i>UNWRAPPED</i></div><div class="tag">not financial advice</div></header>
+  <header><div class="logo">HYPER<i>WRAPPED</i></div><div class="tag">not financial advice</div></header>
 
   <section id="landing">
-    <h1>Your perps,<br><span>unwrapped</span>.<br><em>No refunds.</em></h1>
+    <h1>Your perps,<br><span>wrapped</span>.<br><em>No refunds.</em></h1>
     <p>Paste any Hyperliquid address. Get shareable cards: all-time PnL, best and worst trades, cursed assets, biggest miss, and what kind of degen you really are.</p>
     <form class="inp" id="form">
       <input id="addr" placeholder="0x… Hyperliquid address" autocomplete="off" spellcheck="false" inputmode="text">
@@ -35,7 +35,7 @@
 
   <section id="story">
     <div class="prog" id="prog"></div>
-    <div class="stage" id="stage"><img id="cardImg" alt="unwrapped card"><div class="tap l" id="tapL"></div><div class="tap r" id="tapR"></div></div>
+    <div class="stage" id="stage"><img id="cardImg" alt="wrapped card"><div class="tap l" id="tapL"></div><div class="tap r" id="tapR"></div></div>
     <div class="nav"><button id="prev">← prev</button><span class="tag" id="count"></span><button id="next">next →</button></div>
     <div class="actions">
       <button class="act primary" id="share">Share card</button>

diff --git a/src/ui/story.ts b/src/ui/story.ts
@@ -25,7 +25,7 @@ export function createStoryViewer(onClose: () => void) {
   let idx = 0;
   let user = "";
 
-  const fileName = (c: Card) => `hyper-unwrapped-${shortAddr(user).replace("…", "")}-${c.name}.png`;
+  const fileName = (c: Card) => `hyper-wrapped-${shortAddr(user).replace("…", "")}-${c.name}.png`;
 
   function show(i: number) {
     idx = clamp(i, 0, deck.length - 1);
@@ -78,7 +78,7 @@ export function createStoryViewer(onClose: () => void) {
   $("#share").onclick = async () => {
     try {
       const f = new File([await blobOf(deck[idx].cv)], fileName(deck[idx]), { type: "image/png" });
-      if (navigator.canShare?.({ files: [f] })) await navigator.share({ files: [f], text: "My Hyperliquid, unwrapped 👀" });
+      if (navigator.canShare?.({ files: [f] })) await navigator.share({ files: [f], text: "My Hyperliquid Wrapped 👀" });
       else {
         download(f, f.name);
         toast("Sharing not supported here, saved instead");

diff --git a/index.html b/index.html
@@ -2,10 +2,10 @@
 <html lang="en">
 <head>
 <meta charset="utf-8">
-<title>Hyper Unwrapped</title>
+<title>Hyper Wrapped</title>
 <!-- If GitHub Pages serves the repo root, forward to the built app in docs/. -->
 <meta http-equiv="refresh" content="0; url=./docs/">
 <link rel="canonical" href="./docs/">
 </head>
-<body><a href="./docs/">Open Hyper Unwrapped</a></body>
+<body><a href="./docs/">Open Hyper Wrapped</a></body>
 </html>

diff --git a/src/render/canvas.ts b/src/render/canvas.ts
@@ -153,7 +153,7 @@ export function newCard(mood: Mood, intensity: number, seed: number, user: strin
   ctx.fillText("HYPER", PAD, 104);
   const w = ctx.measureText("HYPER").width;
   ctx.fillStyle = mood.acc;
-  ctx.fillText("UNWRAPPED", PAD + w + 6, 104);
+  ctx.fillText("WRAPPED", PAD + w + 6, 104);
 
   ctx.textAlign = "right";
   ctx.fillStyle = "rgba(255,255,255,.6)";

diff --git a/README.md b/README.md
@@ -1,6 +1,6 @@
-# Hyper Unwrapped
+# Hyper Wrapped
 
-**Your Hyperliquid trading, unwrapped.** Paste any Hyperliquid address and get shareable PnL cards: best trade, worst trade, cursed assets, biggest miss and what kind of degen you really are.
+**Your Hyperliquid trading, wrapped.** Paste any Hyperliquid address and get shareable PnL cards: best trade, worst trade, cursed assets, biggest miss and what kind of degen you really are.
 
 **Live:** https://venerable-clafoutis-1faf33.netlify.app
 
